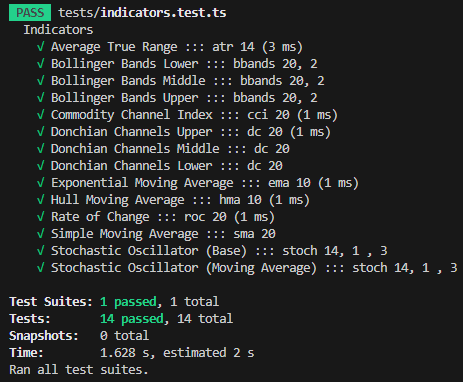
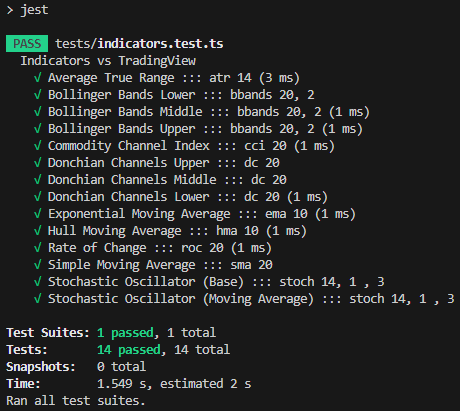
Indicators vs TradingView

Changed region(s): [[0.0, 0.0, 1.0, 0.7487], [0.0, 0.7775, 0.5478, 1.0]]

diff --git a/tests/indicators.test.ts b/tests/indicators.test.ts
@@ -56,7 +56,7 @@ class Helper {
 }
 
 // ################################# Test
-describe('Indicators', () => {
+describe("Indicators vs TradingView", () => {
 
     it("Average True Range ::: atr 14", async () => {
         const indicator = await ta.atr(high, low, close, 14)
